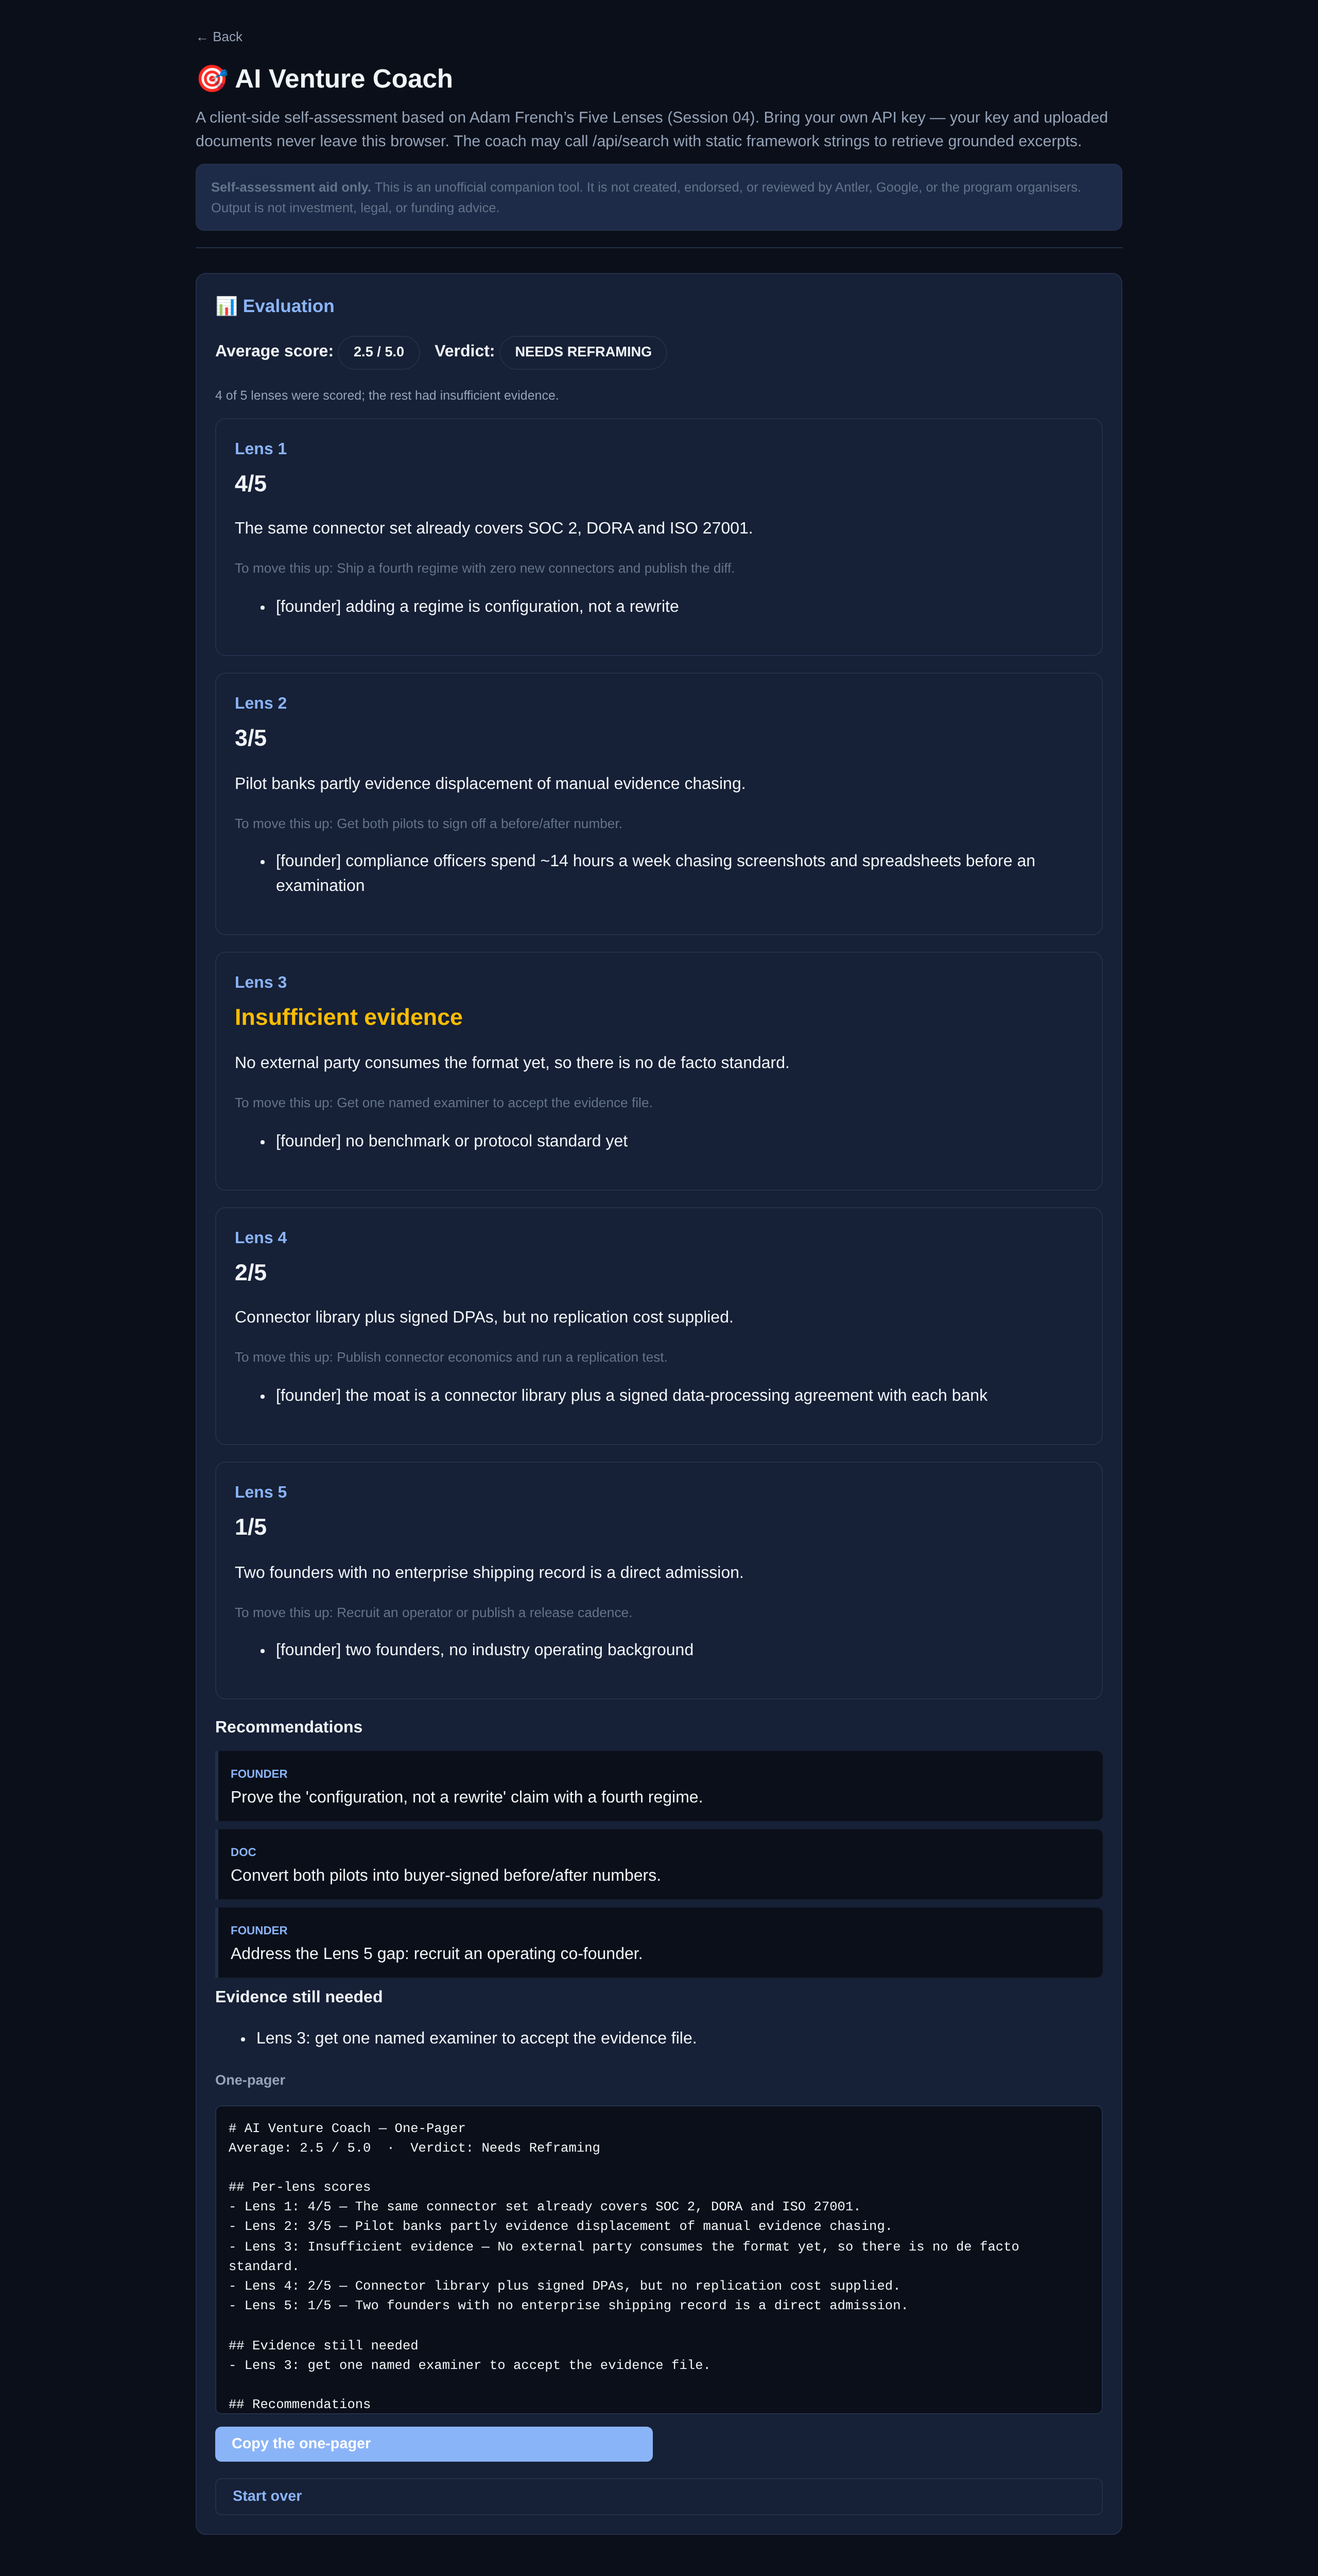
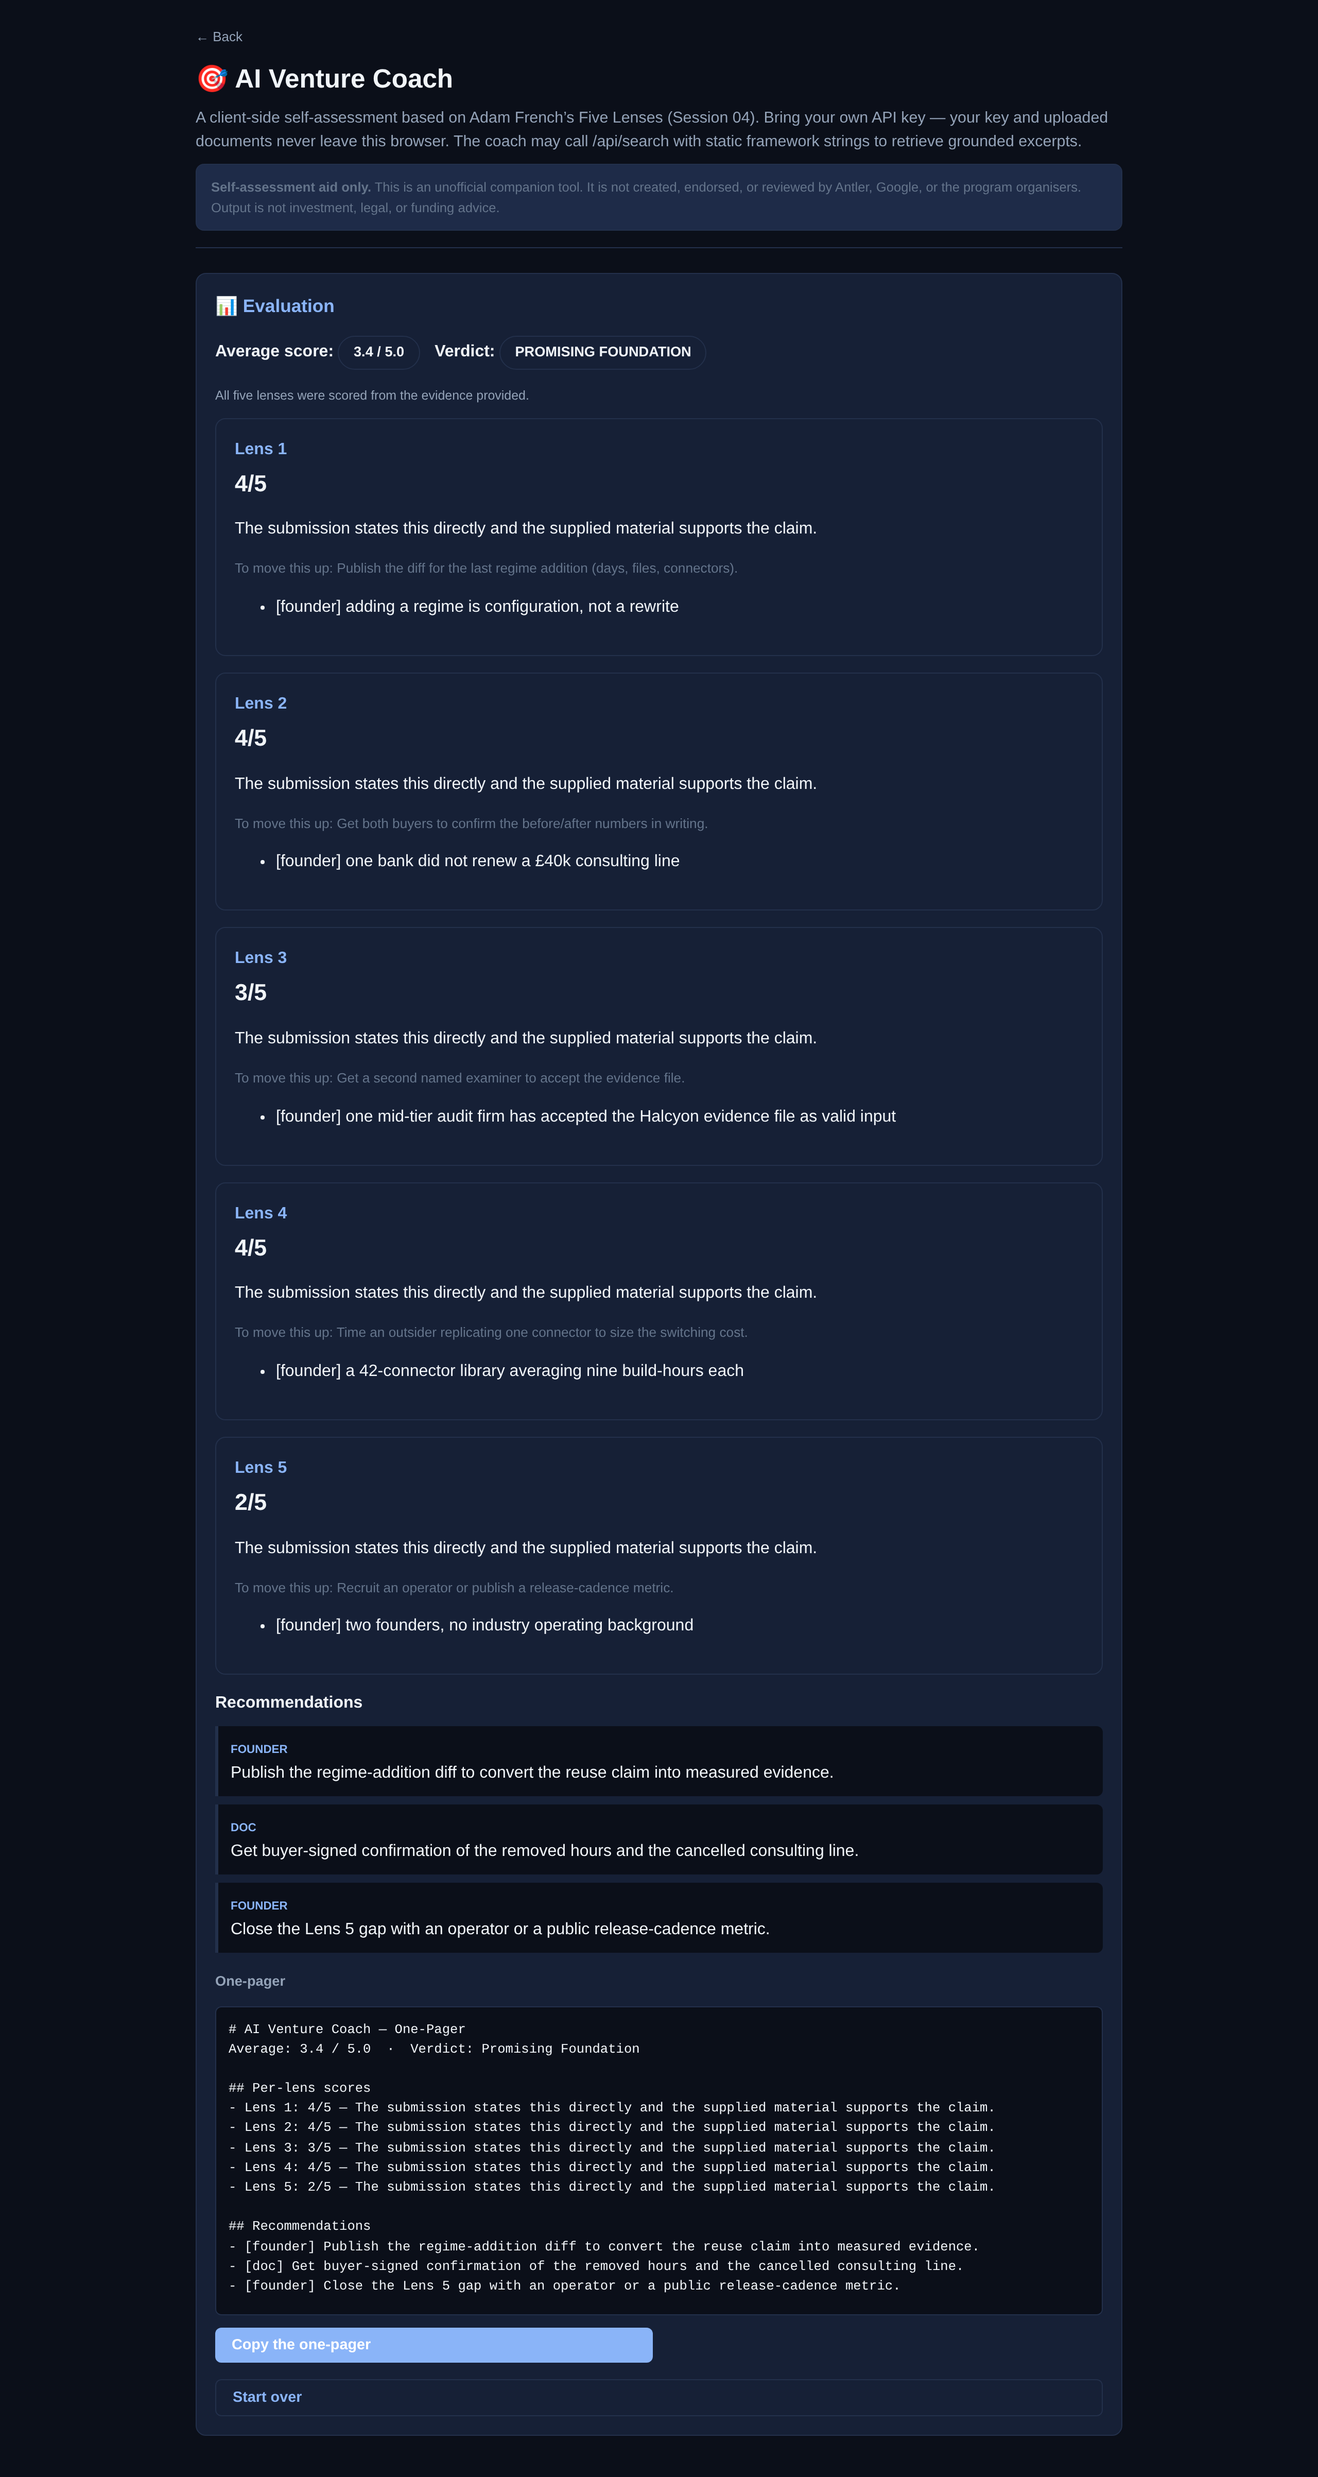
coach: enrich the built-in sample so it exercises all five lenses
The sample startup's evidence was thin, so an honest model returned 2.0/5
'Needs Reframing' with two lenses unscored — a poor first impression for a
demo. It now carries a connector count, a regime-addition timeline,
buyer-signed before/after numbers and an external acceptance, so a grounded
run scores ~3.4/5 'Promising Foundation' with all five lenses scored while
still showing one weak lens. Screenshot refreshed to match.

diff --git a/site/methodology/vc/ai-coach.html b/site/methodology/vc/ai-coach.html
@@ -381,13 +381,13 @@
 
   const SAMPLE_STARTUP = {
     label: 'Sample: "Halcyon Compliance" — a FICTIONAL company, for testing only.',
-    pitch: 'Halcyon Compliance helps mid-market banks keep audit evidence current. Compliance officers spend ~14 hours a week chasing screenshots and spreadsheets before an examination. We collect the evidence automatically from the systems the bank already runs, and produce an auditor-ready file. Two paid pilots at £12k/year are signed; both buyers came from a previous regulatory consulting practice.',
+    pitch: 'Halcyon Compliance helps mid-market banks keep audit evidence current. Compliance officers spend ~14 hours a week chasing screenshots and spreadsheets before an examination. We collect the evidence automatically from the systems the bank already runs, and produce an auditor-ready file. Fourteen connectors cover the bank\u2019s core systems. Two paid pilots at \u00a312k/year are signed, both buyers came from a previous regulatory consulting practice, and both signed a before/after: ~11 of the 14 weekly hours removed, with one bank not renewing a \u00a340k consulting line. Shipping weekly since March.',
     lenses: {
-      1: 'The evidence-collection engine already covers three adjacent regimes (SOC 2, DORA, ISO 27001) with the same connector set; adding a regime is configuration, not a rewrite.',
-      2: 'We replace a line item of outside consulting plus ~1 FTE of manual evidence chasing, not a software subscription.',
-      3: 'No benchmark or protocol standard yet. We are one of several vendors and we do not define the schema others integrate against.',
-      4: 'The moat is a connector library plus a signed data-processing agreement with each bank; both take real effort to replicate, but a fast-follower could copy the UI quickly.',
-      5: 'Two founders, no industry operating background. The consulting background helps with buyers but the team has not yet shipped at the cadence a legacy vendor can.'
+      1: 'The evidence-collection engine already covers three adjacent regimes (SOC 2, DORA, ISO 27001) with the same 14-connector set. The most recent regime was added in six days with zero new connectors, so adding a regime is configuration, not a rewrite.',
+      2: 'We replace a line item of outside consulting plus ~1 FTE of manual evidence chasing. Both pilots signed before/after numbers: ~11 of the 14 weekly hours removed, and one bank did not renew a \u00a340k consulting line.',
+      3: 'One mid-tier audit firm has accepted the Halcyon evidence file as valid input for two engagements. There is no benchmark or protocol standard yet: we are one of several vendors and we do not define the schema others integrate against.',
+      4: 'The moat is a 42-connector library averaging nine build-hours each, plus a signed data-processing agreement with each bank that creates a switching cost. A fast-follower could still copy the UI quickly.',
+      5: 'Two founders, no industry operating background. Shipping weekly since March, but the team has not yet shipped at the cadence a legacy vendor can. The consulting background helps with buyers.'
     }
   };
 
